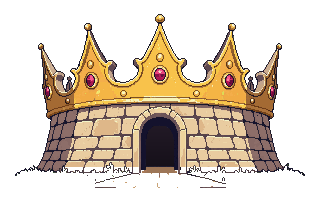
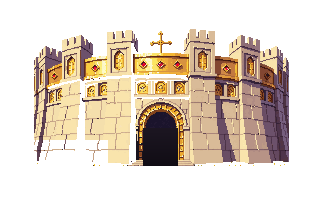
feat(merveilles): Couronne — t4 diademe-forteresse + scintillement des gemmes
- t4 remplace par le tirage "diademe-forteresse" prefere par Raphael
  (tours habitees + bandeau d'or + porte) : fond ciel/nuages/herbe retire
  par region-growing avec garde-fous couleur (pierre chaude, or, grenat
  proteges), coupe plate sous la base, porte repeinte en aplat sombre.
- Animations : scintillement episodique des gemmes aux rangs III/IV/V.
  gem-glint.png dessine en code (16 frames 9x9 dont 12 vides -> eclat
  point/croix/etoile en ping-pong), ancres curees a la main (t3:7, t4:6,
  t5:9), dephasage par gemme. Nouvel anchor:"center" dans
  drawWonderPixelSprite (era_kingdom-flames.json).
- Verifie en jeu : nouveaux t4 rang IV + eclats aux 3 rangs gemmes.
- Docs a jour, dont le piege dev "404 de <id>-flames.json mis en cache
  si le JSON est cree apres le chargement de la page".

diff --git a/src/game/map/renderBuildings.js b/src/game/map/renderBuildings.js
@@ -520,7 +520,9 @@ function drawWonderPixelSprite(wid, px, tier, cxs, baseY, W, H, e, now) {
         dx = left + f.x * sx - dw / 2;
         dy = a.anchor === "top"
           ? top + f.y * sy - sy // tissu : accroché sous sa traverse, pend vers le bas
-          : top + f.y * sy - dh + sy; // flamme : posée sur son foyer, monte
+          : a.anchor === "center"
+            ? top + f.y * sy - dh / 2 // éclat : centré sur sa gemme
+            : top + f.y * sy - dh + sy; // flamme : posée sur son foyer, monte
       }
       ctx.drawImage(strip.img, k * a.fw, 0, a.fw, a.fh, dx, dy, dw, dh);
     }

diff --git a/REPRISE-merveilles.md b/REPRISE-merveilles.md
@@ -93,7 +93,7 @@ convention `<id>-t<rang>.png`, suivi).
   Slot merveille : `__CM.layout.wonderSlots[1]` (idx = position dans CM_WONDERS, pas dans
   state.wonders).
 
-## Merveille 3 — La Couronne de Pierre (`era_kingdom`) : 🟡 SPRITES EN JEU, reste anims
+## Merveille 3 — La Couronne de Pierre (`era_kingdom`) : ✅ TERMINÉE (2026-07-03)
 
 - Concept « **Cercle du Serment** » (validé) : accrétion RADIALE — la géologie devient
   orfèvrerie. I cromlech brut sur butte → II anneau taillé à fleurons bronze → III
@@ -110,9 +110,19 @@ convention `<id>-t<rang>.png`, suivi).
   la base de muraille MESURÉE (un flood-fill fuit par le bas du canvas) ; herbe/dallage/
   silhouette humaine effacés. Vérifiée en jeu rangs I-V (⚠ premier accès = repli
   procédural ~1 s, precharger avant capture).
-- **RESTE** : animations. L'« escarboucle pulsante » proposée visait la variante non
-  retenue ; à re-proposer → piste : SCINTILLEMENT DES GEMMES (patchs custom-start sur les
-  rubis, t3-t5) + éventuel reflet qui court sur l'or du bandeau.
+- **t4 remplacé à la demande de Raph** par le 1er tirage « diadème-forteresse » (celui à
+  ciel complet baké) : fond retiré par REGION-GROWING depuis les bords avec garde-fous
+  couleur (pierre chaude/or/grenat jamais mangés) + coupe plate sous la base (y>=166) +
+  porte repeinte en aplat sombre. La croix d'or au sommet est gardée.
+- **Animations : SCINTILLEMENT DES GEMMES** (t3: 7, t4: 6, t5: 9 ancres curées à la main
+  parmi les dizaines de clusters détectés). Asset `gem-glint.png` DESSINÉ EN CODE
+  (scripts non nécessaires : scratch make-glint) : 16 frames 9×9 dont 12 VIDES →
+  éclat épisodique en ping-pong (point→croix→étoile 4 branches→croix→point), déphasé
+  par gemme. Nouveau `anchor:"center"` dans drawWonderPixelSprite (éclat centré sur sa
+  gemme). `era_kingdom-flames.json` : asset glint ms 120, sc 1.5.
+- ⚠ PIÈGE DEV : `wonderFlamesData` met en cache l'ÉCHEC de fetch du JSON (catch → entrée
+  null à jamais). Si le `<id>-flames.json` est créé APRÈS le chargement de la page,
+  RECHARGER LA PAGE avant de vérifier, sinon les overlays n'apparaissent jamais.
 
 ## Merveilles 4-6 : ⬜ À FAIRE
 

diff --git a/public/pixelart/wonders/README.md b/public/pixelart/wonders/README.md
@@ -62,12 +62,16 @@ Suivi du rework (une ligne par merveille, cocher quand validée) :
       2026-07-03 (`era_kingdom-t1..t5.png`, 128×88 → 400×256, la seule merveille plus LARGE
       que haute). Seuils rééchelonnés ères 19/22/25/29/33 (« Royaume » = ère 19 depuis la
       refonte des ères ; les anciens seuils [9..25] tombaient au Bourg agricole).
-      Post-traitement : strip-bg (t4/t5 fond uni) + nettoyage (herbe/dallage/silhouette
-      humaine effacés, portes re-remplies en dégradé sombre — l'intérieur PixelLab était
-      blanc/gris opaque ou transparent selon le tirage). Intégrée à WONDER_PX_IDS,
-      vérifiée en jeu rangs I-V. Reste : animations (scintillement des gemmes en patch ?)
-      à valider avec Raphaël — l'ancienne proposition « escarboucle pulsante » visait la
-      variante forteresse, non retenue.
+      Post-traitement : strip-bg (t5 fond uni), region-growing avec garde-fous couleur
+      (t4 diadème-forteresse, choisi par Raphaël, ciel/nuages/herbe bakés), nettoyage
+      (herbe/dallage/silhouette humaine effacés, portes re-remplies en dégradé sombre —
+      l'intérieur PixelLab sort blanc/gris opaque ou transparent selon le tirage).
+      ANIMÉE (2026-07-03) : SCINTILLEMENT DES GEMMES — `gem-glint.png` dessiné en code
+      (16 fr. 9×9 dont 12 vides → éclat épisodique, point→croix→étoile→croix→point),
+      ancres curées à la main (t3:7, t4:6, t5:9), nouvel `anchor:"center"`, déphasage
+      par gemme (`era_kingdom-flames.json`). Intégrée à WONDER_PX_IDS, vérifiée en jeu
+      rangs I-V + éclats confirmés aux 3 rangs gemmés. ⚠ piège dev : recharger la page
+      si le JSON est créé après le chargement (le 404 est mis en cache).
 - [ ] 4. L'Arc de Triomphe Éternel (`era_empire`)
 - [ ] 5. L'Aiguille Céleste (`era_mega`)
 - [ ] 6. L'Œil de la Singularité (`era_singularity`)
